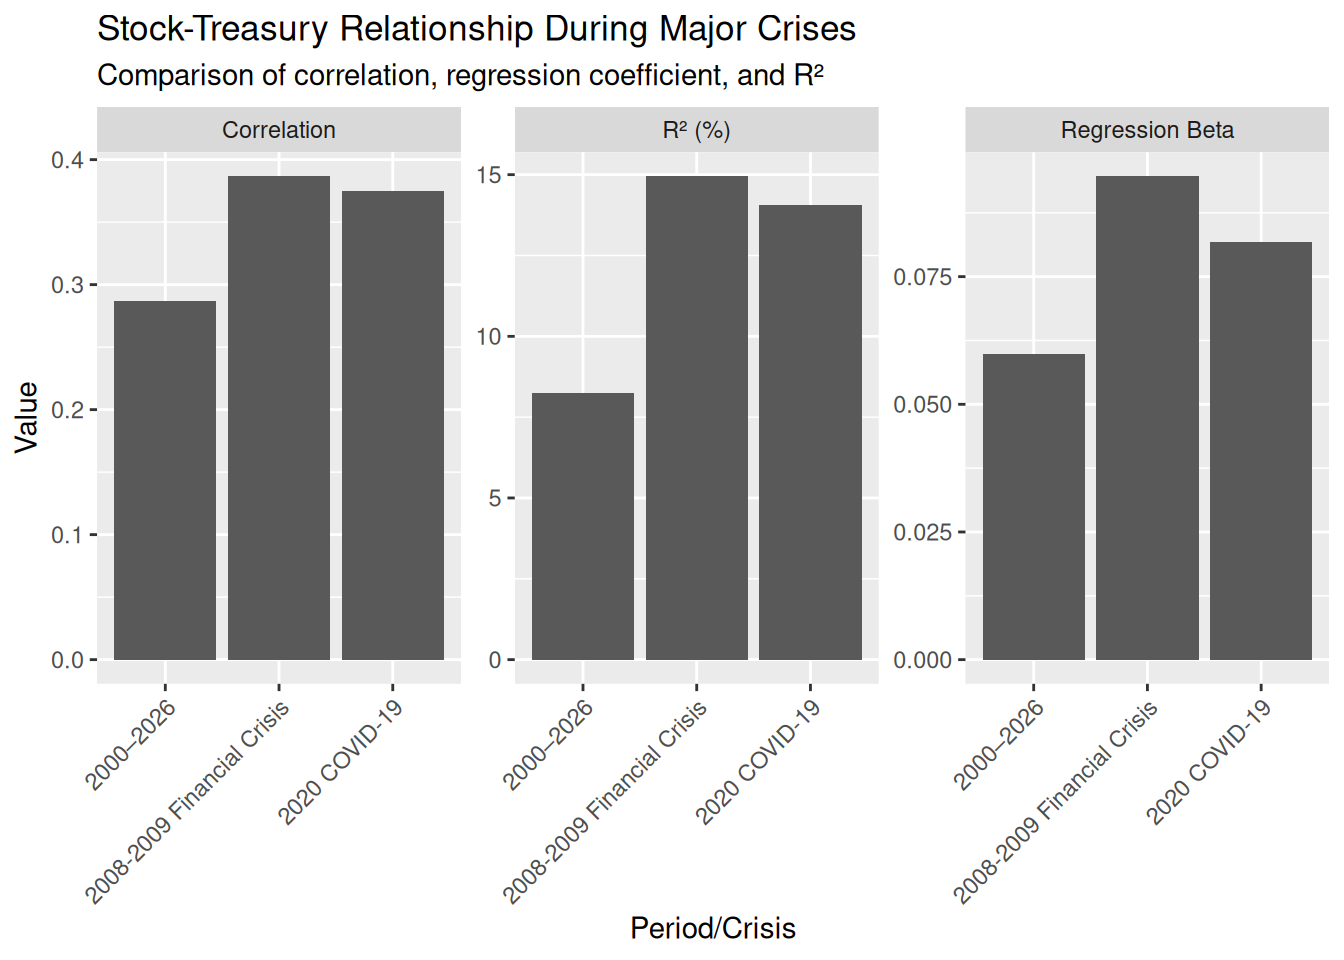
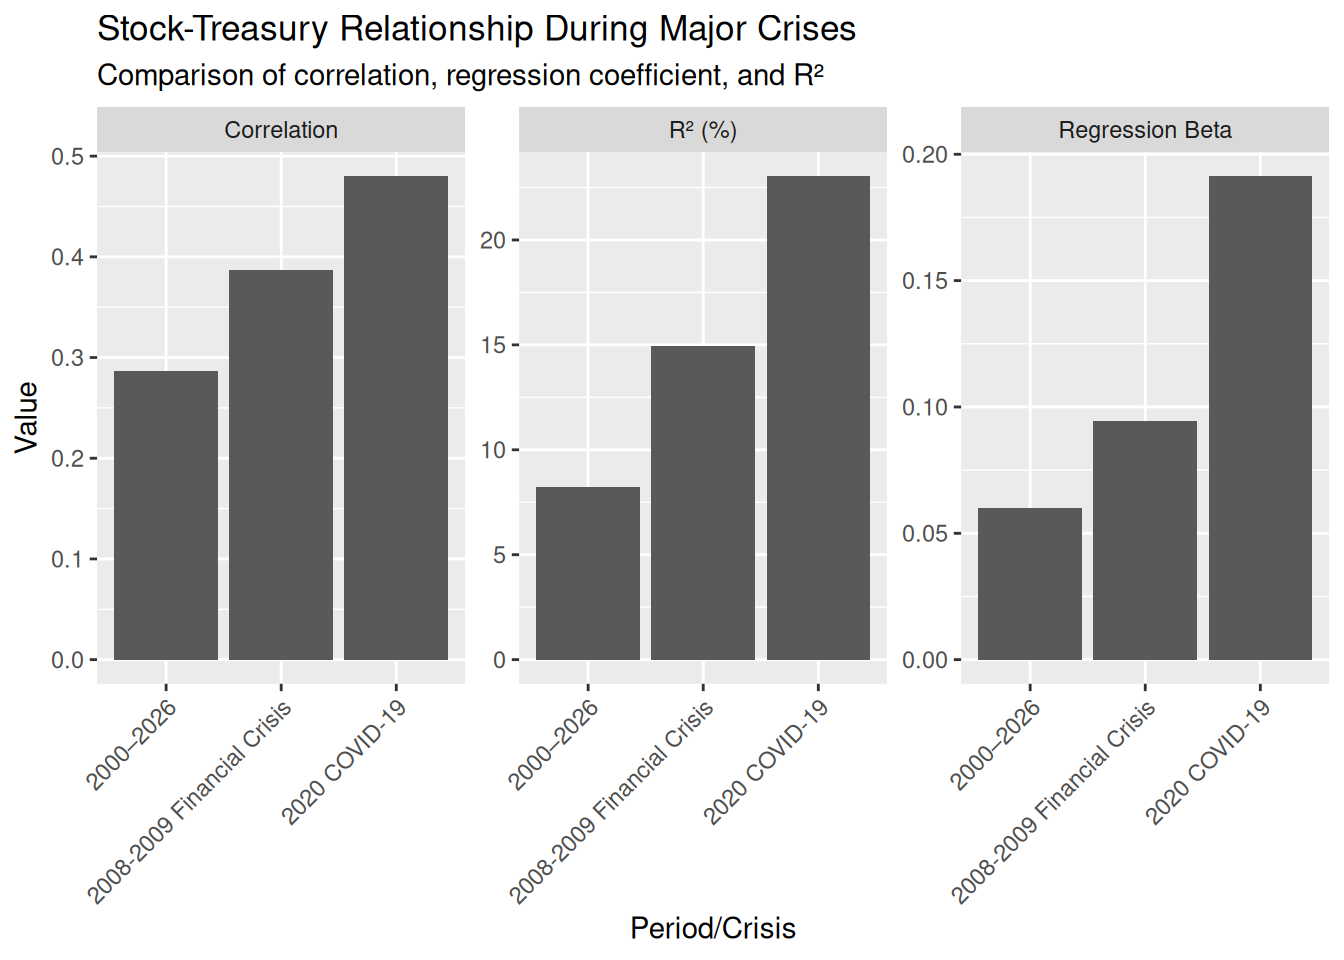
9/21 2

diff --git a/docs/posts/Stock&Bond/index.html b/docs/posts/Stock&Bond/index.html
@@ -262,20 +262,24 @@ F-statistic: 592.4 on 1 and 6598 DF,  p-value: &lt; 2.2e-16</code></pre>
 <h2 class="anchored" data-anchor-id="how-did-the-relationship-between-u.s.-stock-market-returns-and-changes-in-10-year-treasury-yields-differ-between-the-20082009-financial-crisis-and-the-2020-covid-19-market-shock">How did the relationship between U.S. stock-market returns and changes in 10-year Treasury yields differ between the 2008–2009 financial crisis and the 2020 COVID-19 market shock?</h2>
 <div class="cell">
 <div class="cell-output cell-output-stdout">
-<pre><code>      date                sp500          treasury10     sp500_return       
- Min.   :2008-01-02   Min.   : 676.5   Min.   :2.080   Min.   :-0.0903498  
- 1st Qu.:2008-06-30   1st Qu.: 900.9   1st Qu.:3.240   1st Qu.:-0.0100666  
- Median :2008-12-31   Median :1060.9   Median :3.550   Median : 0.0010426  
- Mean   :2008-12-29   Mean   :1085.5   Mean   :3.463   Mean   :-0.0003753  
- 3rd Qu.:2009-06-30   3rd Qu.:1292.2   3rd Qu.:3.810   3rd Qu.: 0.0096264  
- Max.   :2009-12-31   Max.   :1447.2   Max.   :4.270   Max.   : 0.1078901  
- treasury10_change   
- Min.   :-0.5100000  
- 1st Qu.:-0.0600000  
- Median : 0.0000000  
- Mean   :-0.0004024  
- 3rd Qu.: 0.0500000  
- Max.   : 0.2400000  </code></pre>
+<pre><code>
+Call:
+lm(formula = sp500_return ~ treasury10_change, data = financial_crisis)
+
+Residuals:
+      Min        1Q    Median        3Q       Max 
+-0.087186 -0.009718  0.000280  0.010076  0.098764 
+
+Coefficients:
+                    Estimate Std. Error t value Pr(&gt;|t|)    
+(Intercept)       -0.0003372  0.0008841  -0.381    0.703    
+treasury10_change  0.0946351  0.0101464   9.327   &lt;2e-16 ***
+---
+Signif. codes:  0 '***' 0.001 '**' 0.01 '*' 0.05 '.' 0.1 ' ' 1
+
+Residual standard error: 0.01971 on 495 degrees of freedom
+Multiple R-squared:  0.1495,    Adjusted R-squared:  0.1478 
+F-statistic: 86.99 on 1 and 495 DF,  p-value: &lt; 2.2e-16</code></pre>
 </div>
 </div>
 <div class="cell">
@@ -286,18 +290,18 @@ lm(formula = sp500_return ~ treasury10_change, data = covid)
 
 Residuals:
       Min        1Q    Median        3Q       Max 
--0.103027 -0.005259  0.000288  0.005439  0.099376 
+-0.108047 -0.006451  0.001057  0.006853  0.079937 
 
 Coefficients:
-                   Estimate Std. Error t value Pr(&gt;|t|)    
-(Intercept)       0.0003436  0.0001598    2.15   0.0316 *  
-treasury10_change 0.0817000  0.0028014   29.16   &lt;2e-16 ***
+                  Estimate Std. Error t value Pr(&gt;|t|)    
+(Intercept)       0.001459   0.001218   1.198    0.232    
+treasury10_change 0.191246   0.022247   8.597 9.54e-16 ***
 ---
 Signif. codes:  0 '***' 0.001 '**' 0.01 '*' 0.05 '.' 0.1 ' ' 1
 
-Residual standard error: 0.01153 on 5203 degrees of freedom
-Multiple R-squared:  0.1405,    Adjusted R-squared:  0.1403 
-F-statistic: 850.6 on 1 and 5203 DF,  p-value: &lt; 2.2e-16</code></pre>
+Residual standard error: 0.01918 on 247 degrees of freedom
+Multiple R-squared:  0.2303,    Adjusted R-squared:  0.2272 
+F-statistic:  73.9 on 1 and 247 DF,  p-value: 9.538e-16</code></pre>
 </div>
 </div>
 <div class="cell">

diff --git a/docs/index.html b/docs/index.html
@@ -207,7 +207,7 @@ window.Quarto = {
 
 <div class="quarto-listing quarto-listing-container-default" id="listing-listing">
 <div class="list quarto-listing-default">
[2 lines of base64/hex data omitted]
 <div class="thumbnail"><a href="./posts/Stock&amp;Bond/index.html" class="no-external">
 
 <img loading="lazy" src="./posts/Stock&amp;Bond/market.jpg" class="thumbnail-image">
